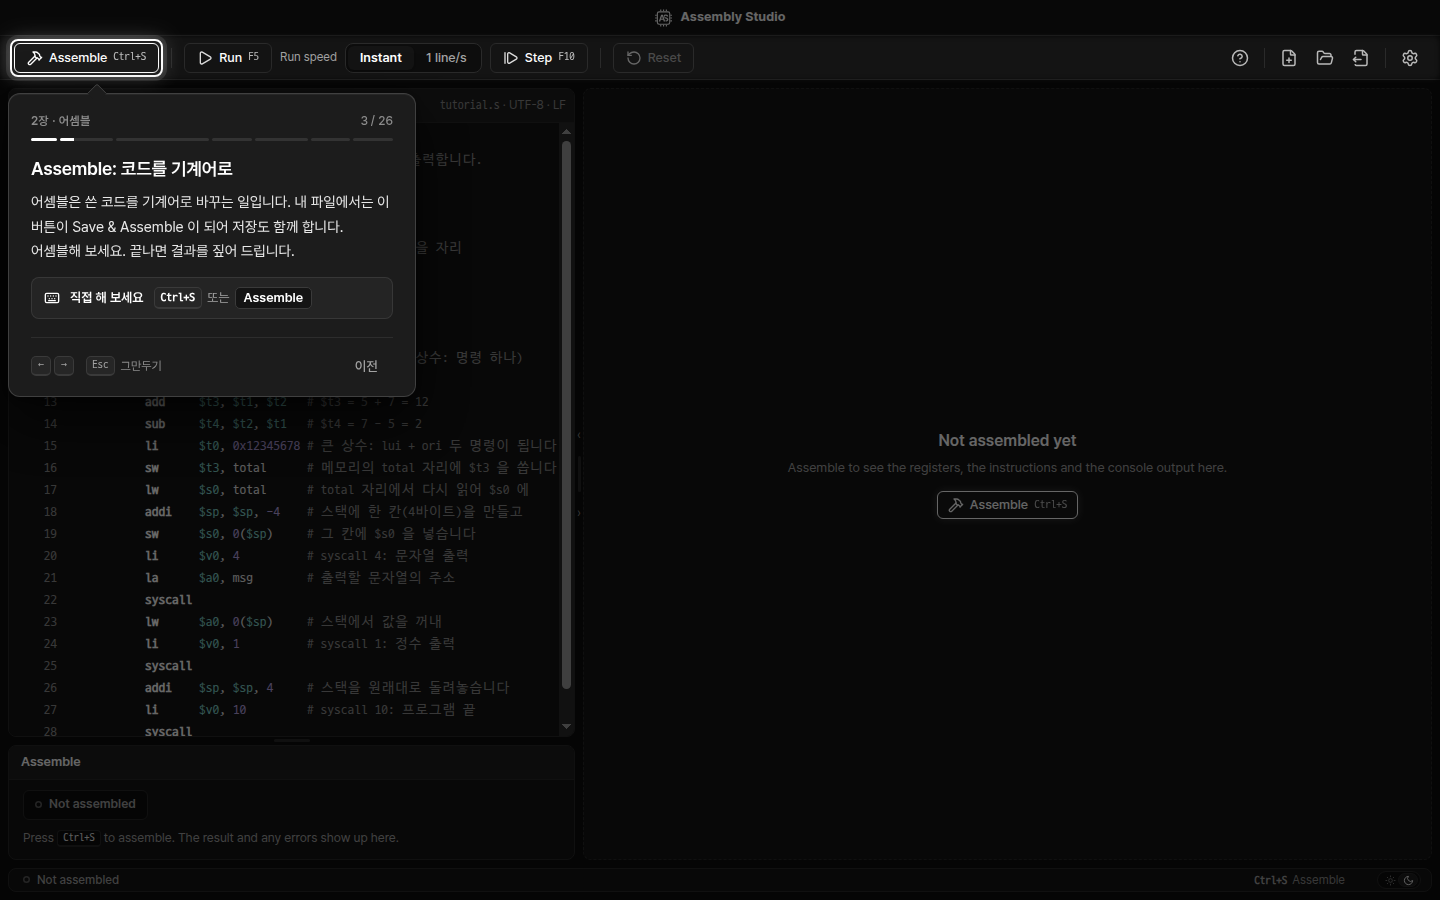
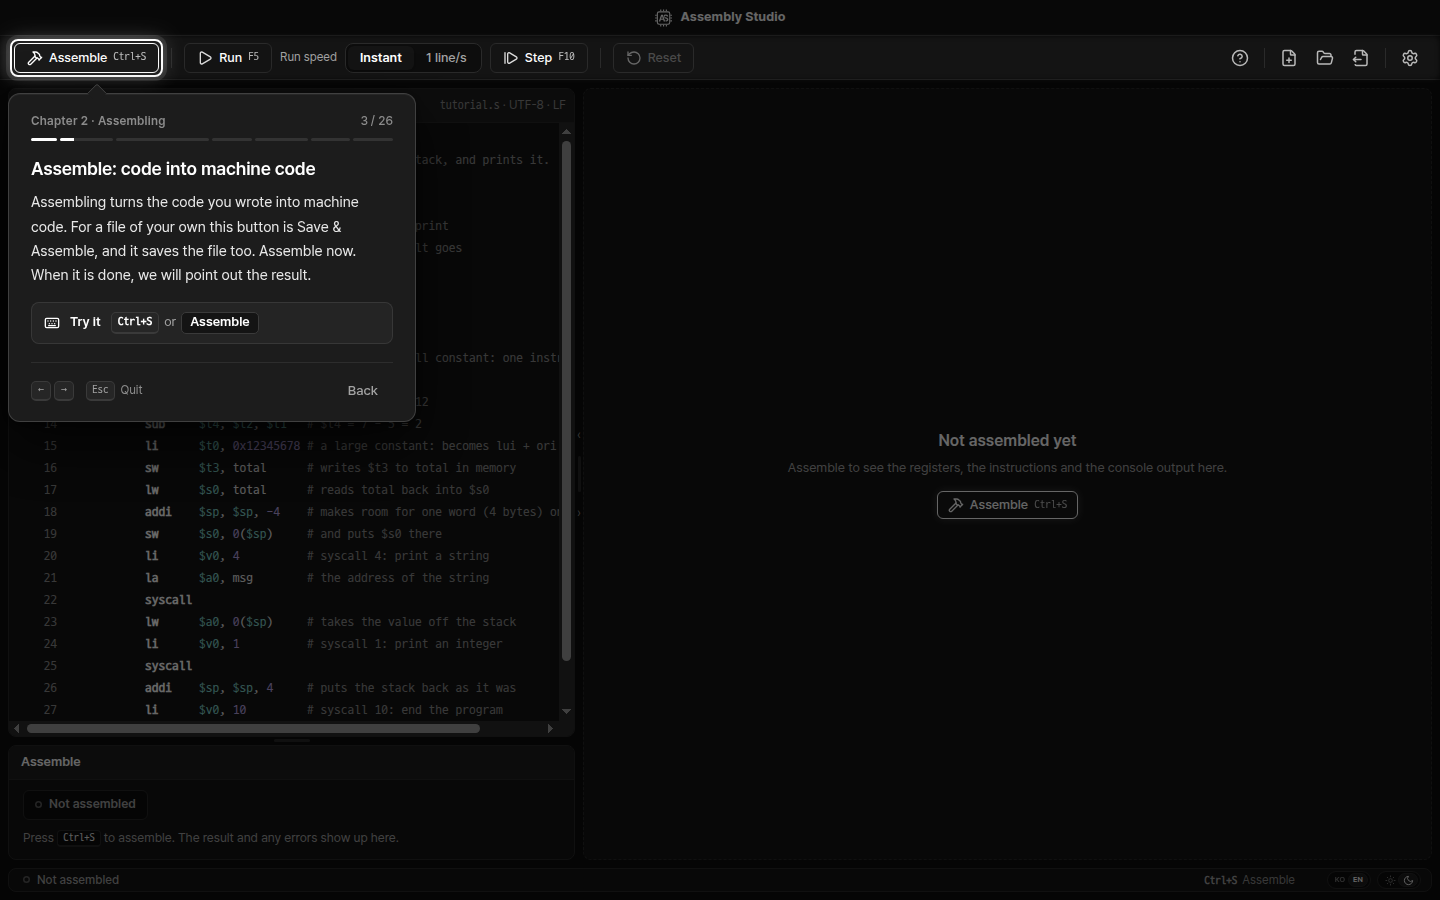
1.1.0: version, release notes, README screenshots in English
Claude-Session: https://claude.ai/code/session_01LAKHPN1S9CRGeRkd4AFT9V

diff --git a/docs/releases/1.1.0.md b/docs/releases/1.1.0.md
@@ -1,0 +1,26 @@
+Assembly Studio 1.1.0
+
+## New
+
+- **Korean and English.** A KO/EN switch chooses the language of everything that was Korean before: the first
+  screen, the questions, Settings, the Inspector's explanations, and the whole tutorial (all 26 steps, for both
+  ISAs, with the example programs' comments in the same language). Change it on the first screen's card (bottom
+  left), in the status bar next to the light/dark switch, or in Settings › Language. It applies at once, without
+  restarting; like the theme, it lasts for the run. The first choice follows the system language.
+- **First screen:** the language switch, the version and the light/dark switch on one line at the bottom of the card.
+- **About › Licenses:** the Java runtime's license (GPL v2 with the Classpath Exception) is listed.
+
+## Changed
+
+- Text can be selected and dragged only in the Editor and in input boxes; a stray drag elsewhere selects nothing.
+- Neutral wording in the Bare machine note and the branch-offset note.
+
+## Fixed
+
+- Under the tutorial with a question open, the area behind the window's caption buttons was a shade lighter than the
+  title bar (Windows).
+
+## Documentation
+
+- README, notices and all other documents are in English. NOTICE lists every component that ships, with its version,
+  license, copyright holders and where its full text is.
